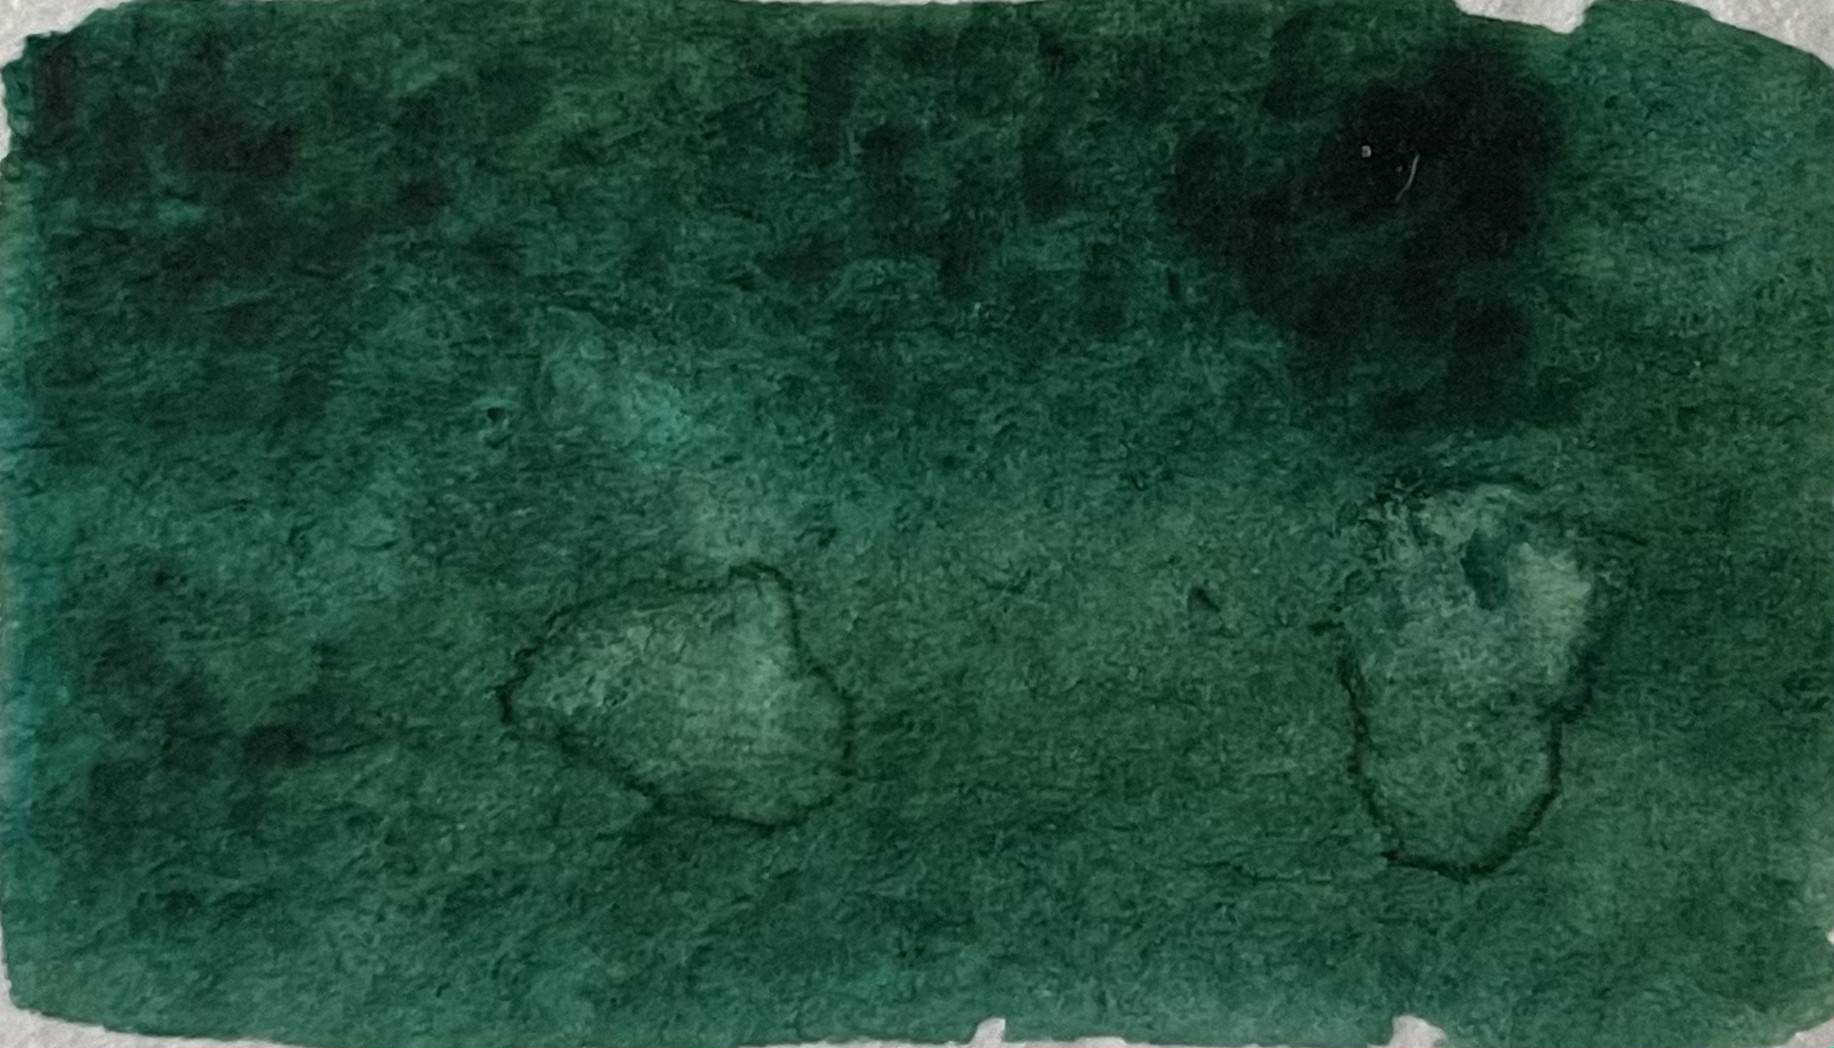
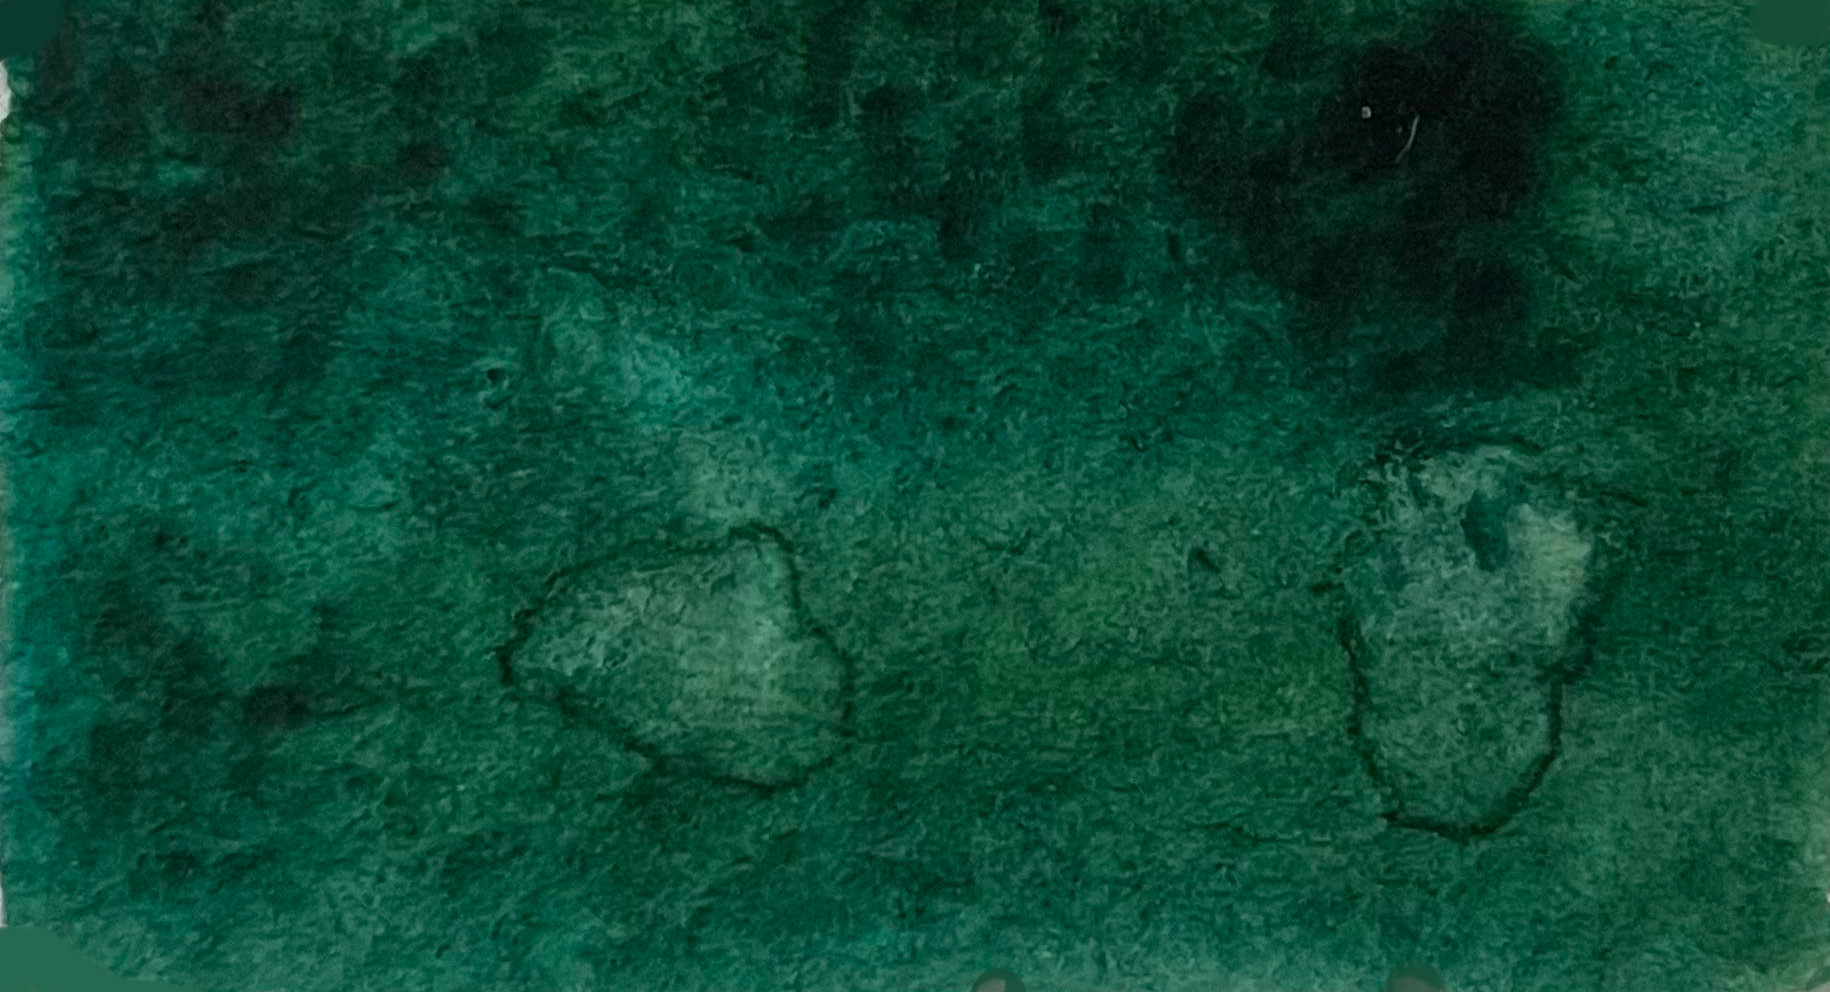
test background colours & edit home-story

diff --git a/client/src/pages/Home/Story.jsx b/client/src/pages/Home/Story.jsx
@@ -1,15 +1,11 @@
 // ---- hooks, dependencies, styling import ----
 import { useState } from "react";
 
-// ---- components ----
-
-// ---- context import ----
-
 // ---- data ----
 const story = [
   "It was a windy night when the Scientist sat down to write everything he knew about the Earth and its ecosystems...",
   "“Oh no! An ink blob!” - he sighed, but the night was full and his eyes began to close...",
-  '“Where am I?" - said the Ink Blob looking around - “An explorer journal! But the scientist is deep asleep... I must learn as much as I can before dawn so I can fill this story"',
+  '“Where am I...?" - said the Ink Blot looking around - “Explorer"s journal! But I see the scientist is deep asleep... Well, I must learn as much as I can before dawn so I can fill this story"',
 ];
 
 const journal =
@@ -23,7 +19,7 @@ const Story = ({ closeModal }) => {
   const [iter, setIter] = useState(0);
   const [slide, setSlide] = useState(false);
   const [dialog, setDialog] = useState(1);
-
+  const [showButton, setShowButton] = useState(false);
 
   //? ---- event handlers ----
 
@@ -33,11 +29,16 @@ const Story = ({ closeModal }) => {
     if (iter < splitJournal.length - 1) setIter(iter + 1);
     setSlide(true);
     setTimeout(() => setSlide(false), 2000);
+    if(iter === 4) {
+      setShowButton(true)
+    }
   };
 
-  const handleBlob = () => {
+  const handleButton = () => {
     if (dialog < 3) setDialog(dialog + 1);
+    if(dialog === 2) setShowButton(false);
   };
+
 
   //? ---- variables ----
 
@@ -58,15 +59,14 @@ const Story = ({ closeModal }) => {
         {iter < 5 ? <button  className="pulse-me" onClick={handleNext}>next</button> : null}
         {iter === 5 ? (
           <> <div className="inkblot" ></div>
-          <div onClick={handleBlob} className="circle-button">
-            <div></div>
-            <div></div>
-            <div></div>
-          </div>
          </>
         ) : null}
+        {showButton ? <div onClick={handleButton} className="circle-button">
+            <div></div>
+            <div></div>
+            <div></div>
+          </div> : null }
       </div>
-      div
     </div>
   );
 };

diff --git a/client/src/pages/Home/_story.scss b/client/src/pages/Home/_story.scss
@@ -6,6 +6,7 @@
 .story {
   @include flex-center;
   .story-title {
+    @include flex-center;
     text-align: center;
     font-family: $font-title;
     font-size: $font-size-md;
@@ -13,10 +14,13 @@
     height: 20rem;
     width: 90%;
     color: $light-txt;
+    @media screen and (max-width: $tablet) {
+      font-size: 3rem;
+    }
     button {
-      background-image: url("../../assets/images/d-blue-btn.jpg");
-      background-position: center;
-      background-size: cover;
+      margin-top: 2rem;
+      animation: pulse 2s infinite linear alternate;
+      font-size: 6rem;
       color: $light-txt;
       padding: 1rem 3rem;
       border-radius: 50px;
@@ -32,13 +36,12 @@
     background-image: url("../../assets/images/paper-journal.png");
     background-position: center;
     background-size: cover;
-    height: 30rem;
-    width: 78rem;
-    padding: 0 5rem;
+    height: 25rem;
+    width: 60rem;
     position: relative;
     text-align: justify;
     p {
-      width: 60rem;
+      width: 50rem;
       margin-top: 1rem;
       height: 12rem;
     }
@@ -49,8 +52,8 @@
   }
   .circle-button {
     position: relative;
-    bottom: -10%;
-    animation: show-text 1.5s ease-in both 2s;
+    bottom: -7%;
+    animation: show-text 1.5s ease-in both 1.5s;
     cursor: pointer;
     div {
       background-position: center;
@@ -96,7 +99,7 @@
 
 .inkblot {
   position: absolute;
-  left: 40.5%;
+  left: 46%;
   top: 18%;
   background-image: url("../../assets/images/blob_2.png");
   background-position: center;

diff --git a/client/src/pages/LoginAndRegistration/_login.scss b/client/src/pages/LoginAndRegistration/_login.scss
@@ -13,7 +13,7 @@
     margin-top: 1.25rem;
     position: relative;
     overflow: hidden;
-    border-radius: 12px;
+    border-radius: 5rem;
     box-shadow: 0 14px 28px rgba(0, 0, 0, 0.25), 0 10px 10px rgba(0, 0, 0, 0.22);
     width: 66%;
     min-width: 70rem;
@@ -150,9 +150,9 @@
     z-index: 100;
 
     .overlay {
-      background-image: url("../../assets/images/d-green-btn.jpg");
+      background-image: url("../../assets/images/b-1.png");
       background-repeat: no-repeat;
-      background-size: 115%;
+      background-size: cover;
       background-position: center;
       color: $light-txt;
       position: relative;

diff --git a/client/src/pages/Home/_home.scss b/client/src/pages/Home/_home.scss
@@ -23,7 +23,7 @@
 
 .story-overlay {
   height: 100%;
-  background-image: $bg-button;
+  background-image: url("../../assets/images/b-1.png");
   box-shadow: $shadow-modal;
   background-position: center;
   background-size: 110%;
